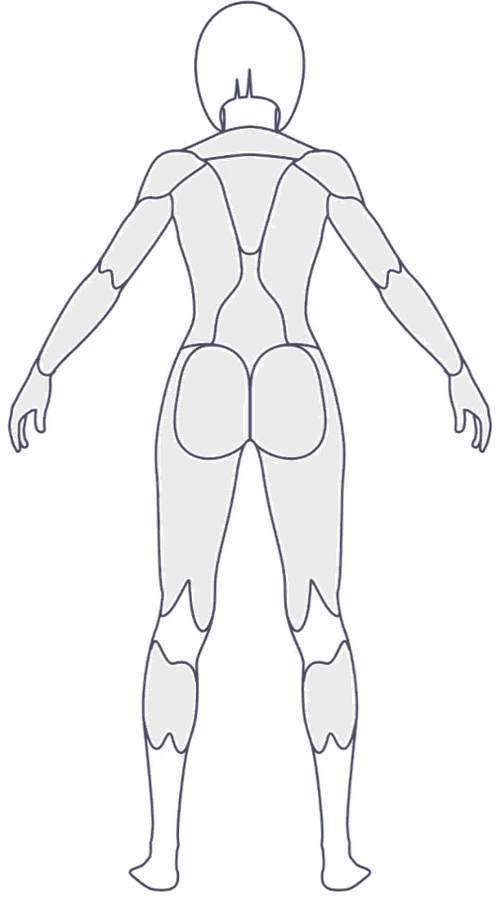
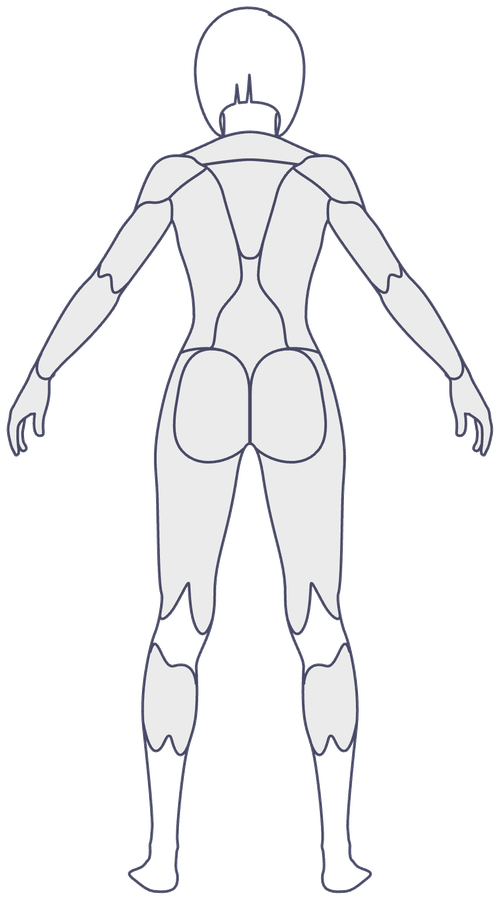
upgrading quality

diff --git a/index.html b/index.html
@@ -1016,35 +1016,35 @@
   const HOTSPOTS = {
     female: {
       front: [
-        { g:"shoulders", p:"188,174 184,172 168,172 160,176 156,180 156,184 153,186 152,192 148,197 142,218 144,215 150,213" },
-        { g:"shoulders", p:"317,172 317,178 320,184 324,185 352,215 357,217 352,197 343,180 335,173" },
-        { g:"chest", p:"235,174 216,172 203,175 196,181 195,187 183,194 179,202 168,210 177,215 197,239 214,239 232,234 245,218 245,184" },
-        { g:"chest", p:"256,179 255,221 262,231 284,239 303,239 309,235 311,226 318,222 322,214 331,210 298,176 287,172 272,172" },
-        { g:"core", p:"247,242 223,251 217,263 224,375 233,402 250,422 264,406 276,371 283,260 276,251" },
-        { g:"biceps", p:"167,222 154,222 144,233 138,234 116,264 110,280 110,290 114,293 119,292 130,284 149,254 153,253 160,243 163,234 167,233" },
-        { g:"biceps", p:"334,221 330,228 342,248 347,249 351,258 357,261 368,282 378,291 385,293 389,290 389,280 383,264 376,257 375,250 368,241 346,223" },
-        { g:"forearms", p:"119,302 105,301 99,295 99,288 83,300 85,306 77,307 67,319 64,330 48,352 48,363 55,365 84,342 84,338 109,317" },
-        { g:"forearms", p:"398,285 399,301 382,303 385,311 421,347 433,352 440,362 446,365 451,363 453,357 434,322" },
-        { g:"quads", p:"177,377 158,448 167,596 186,604 196,630 207,608 232,468 243,449 208,411 199,389" },
-        { g:"quads", p:"321,377 300,390 258,450 291,605 303,630 313,605 330,602 341,457" },
+        { g:"shoulders", p:"190,175 173,172 161,176 149,192 139,222 149,216" },
+        { g:"shoulders", p:"309,175 349,215 360,222 350,192 338,176 327,172" },
+        { g:"chest", p:"241,178 221,173 205,175 164,213 174,216 198,242 229,237 237,233 245,223 245,183" },
+        { g:"chest", p:"260,177 254,183 254,224 270,237 301,242 326,215 334,213 292,174 278,173" },
+        { g:"core", p:"237,247 216,259 221,358 231,400 250,425 263,410 276,373 283,259 262,247" },
+        { g:"biceps", p:"166,222 159,221 145,228 123,252 110,277 108,290 112,295 122,292 130,285 161,245 169,231" },
+        { g:"biceps", p:"333,222 330,232 368,284 377,292 387,295 391,289 390,281 373,248 348,224 340,221" },
+        { g:"forearms", p:"100,285 76,307 44,357 48,367 53,368 76,350 116,309 119,303 107,303 101,296" },
+        { g:"forearms", p:"399,285 397,298 391,303 380,303 423,350 446,368 451,367 455,358 436,325 422,306" },
+        { g:"quads", p:"176,377 157,456 163,575 170,607 182,605 196,633 210,599 235,464 244,452 199,390" },
+        { g:"quads", p:"323,377 299,391 255,452 303,633 312,610 329,607 336,574 342,457" },
       ],
       back: [
-        { g:"traps", p:"218,162 228,191 232,192 243,242 253,248 272,181 284,163 253,159" },
-        { g:"shoulders", p:"193,159 187,156 169,156 157,164 155,171 152,173 151,184 146,188 146,192 165,190 177,177 182,175 190,167 193,167" },
-        { g:"shoulders", p:"304,161 305,165 309,166 309,169 316,174 322,175 323,178 331,184 334,190 354,192 345,168 333,158 327,156 313,156 312,159 306,159" },
-        { g:"back", p:"207,170 176,193 199,297 199,318 190,340 207,339 216,303 237,272 217,185" },
-        { g:"back", p:"292,170 272,220 276,228 269,229 262,274 282,298 292,339 309,341 301,322 301,290 324,195" },
-        { g:"triceps", p:"167,200 144,204 124,230 124,235 114,247 114,253 108,257 108,264 117,272 119,281 152,238 153,231 161,225 167,212" },
-        { g:"triceps", p:"333,202 331,211 340,228 382,282 380,269 394,265 376,236 374,226 365,221 357,205 346,201 344,205" },
-        { g:"forearms", p:"107,277 97,275 95,280 89,281 86,290 81,290 45,353 45,369 104,309 104,304 113,294" },
-        { g:"forearms", p:"392,276 392,288 387,293 389,301 401,311 413,330 424,335 438,355 454,369 456,357 430,308 425,306 424,299 407,278" },
-        { g:"lowerback", p:"249,257 245,263 246,281 223,313 219,340 240,347 250,361 252,354 273,340 281,340 275,310 257,291 252,275 253,258" },
-        { g:"glutes", p:"208,350 197,354 187,369 180,405 180,431 193,449 218,453 242,439 245,384 236,360 231,360 228,353" },
-        { g:"glutes", p:"281,350 265,358 264,367 255,379 255,435 272,449 300,453 314,443 320,431 320,420 316,418 320,412 316,383 310,365 300,353" },
-        { g:"hamstrings", p:"175,373 159,451 165,607 192,575 203,625 234,458 198,463 177,450 169,422" },
-        { g:"hamstrings", p:"325,378 329,436 321,456 278,465 264,458 295,624 308,576 334,604 340,450" },
-        { g:"calves", p:"155,650 148,683 148,724 155,740 160,738 164,729 172,728 181,745 191,714 190,675 183,667 163,665" },
-        { g:"calves", p:"344,650 341,662 334,667 311,670 306,685 311,688 306,696 311,698 307,705 317,744 328,728 335,729 343,742 349,731 351,680" },
+        { g:"traps", p:"213,167 226,188 242,247 251,254 256,249 275,183 286,167 257,163" },
+        { g:"shoulders", p:"199,168 191,162 181,159 172,159 162,163 154,172 142,199 157,198 165,195 178,182" },
+        { g:"shoulders", p:"300,168 317,179 334,195 341,198 357,199 345,172 335,162 327,159 311,160" },
+        { g:"back", p:"207,174 174,198 197,299 197,325 188,346 209,342 214,313 237,278 232,240 218,192" },
+        { g:"back", p:"292,174 271,226 262,279 284,311 290,343 311,346 302,325 302,297 325,199" },
+        { g:"triceps", p:"167,204 144,207 121,236 102,271 110,270 114,273 116,287 126,278 167,219" },
+        { g:"triceps", p:"332,204 331,215 337,228 369,273 383,287 385,273 389,270 397,271 376,233 355,207" },
+        { g:"forearms", p:"107,279 95,278 72,305 42,360 40,368 44,374 95,324 114,296 108,292" },
+        { g:"forearms", p:"392,279 391,292 385,296 388,303 416,337 455,374 458,371 457,360 432,313 404,278" },
+        { g:"lowerback", p:"244,261 244,285 222,317 217,345 237,352 250,369 262,352 282,344 277,317 254,282 255,261" },
+        { g:"glutes", p:"218,353 202,354 192,362 184,380 178,414 181,442 191,453 205,458 224,455 245,440 243,376 231,359" },
+        { g:"glutes", p:"281,353 268,359 256,376 254,440 275,455 294,458 308,453 318,442 321,414 310,367 294,353" },
+        { g:"hamstrings", p:"187,354 159,445 164,612 191,579 202,629 235,459 197,465 172,443 175,381" },
+        { g:"hamstrings", p:"311,354 325,387 327,443 302,465 264,459 296,628 308,579 335,612 340,445" },
+        { g:"calves", p:"154,651 146,696 148,729 155,745 165,732 172,732 180,749 192,712 191,679 184,669 164,667" },
+        { g:"calves", p:"344,650 332,669 315,669 308,679 308,719 319,750 327,732 334,732 343,746 350,732 353,698" },
       ],
     },
     male: {

diff --git a/scripts/extract_hotspots.py b/scripts/extract_hotspots.py
@@ -28,16 +28,16 @@ CHECKS = os.path.join(os.path.dirname(os.path.abspath(__file__)), "_checks")
 # seed points (or bounding boxes, is_box=1) per muscle, in the 500x900 image space.
 # Bilateral muscles get two entries (L/R). `core` lists several ab-segment seeds (unioned).
 SPECS = {
- 'female-front':[("shoulders",[(148,205),(140,222),(158,190)],0),("shoulders",[(352,205),(360,222),(342,190)],0),
-   ("chest",[(218,178)],0),("chest",[(282,178)],0),
-   ("core",[(250,235),(250,265),(250,300),(238,250),(262,250),(238,290),(262,290),(250,330)],0),
-   ("biceps",[(135,265)],0),("biceps",[(365,265)],0),("forearms",(55,322,120,418),1),("forearms",(380,322,445,418),1),
-   ("quads",[(208,510)],0),("quads",[(292,510)],0)],
- 'female-back':[("traps",[(250,175)],0),("shoulders",[(158,178),(150,170),(166,186)],0),("shoulders",[(342,178),(350,170),(334,186)],0),
-   ("back",[(215,250)],0),("back",[(285,250)],0),("triceps",[(135,265)],0),("triceps",[(365,265)],0),
-   ("forearms",(55,322,120,418),1),("forearms",(380,322,445,418),1),("lowerback",[(250,335)],0),
-   ("glutes",[(215,395)],0),("glutes",[(285,395)],0),("hamstrings",[(210,520)],0),("hamstrings",[(290,520)],0),
-   ("calves",(178,655,250,815),1),("calves",(250,655,322,815),1)],
+ 'female-front':[("shoulders",[(161,192)],0),("shoulders",[(337,192)],0),
+   ("chest",[(211,207)],0),("chest",[(287,207)],0),
+   ("core",[(249,326)],0),
+   ("biceps",[(137,256)],0),("biceps",[(361,256)],0),("forearms",[(80,326)],0),("forearms",[(418,326)],0),
+   ("quads",[(192,497)],0),("quads",[(306,497)],0)],
+ 'female-back':[("traps",[(249,197),(249,149)],0),("shoulders",[(168,177)],0),("shoulders",[(330,177)],0),
+   ("back",[(205,251)],0),("back",[(292,251)],0),("triceps",[(135,241)],0),("triceps",[(363,241)],0),
+   ("forearms",[(77,322)],0),("forearms",[(421,322)],0),("lowerback",[(249,321)],0),
+   ("glutes",[(212,406)],0),("glutes",[(286,406)],0),("hamstrings",[(189,514)],0),("hamstrings",[(309,514)],0),
+   ("calves",[(168,702)],0),("calves",[(330,702)],0)],
  'male-front':[("shoulders",[(158,190)],0),("shoulders",[(342,190)],0),("chest",[(215,190)],0),("chest",[(285,190)],0),
    ("core",[(250,260),(250,300),(250,340),(235,280),(265,280),(235,330),(265,330),(250,380)],0),
    ("biceps",[(130,270)],0),("biceps",[(370,270)],0),("forearms",(40,330,130,430),1),("forearms",(370,330,460,430),1),